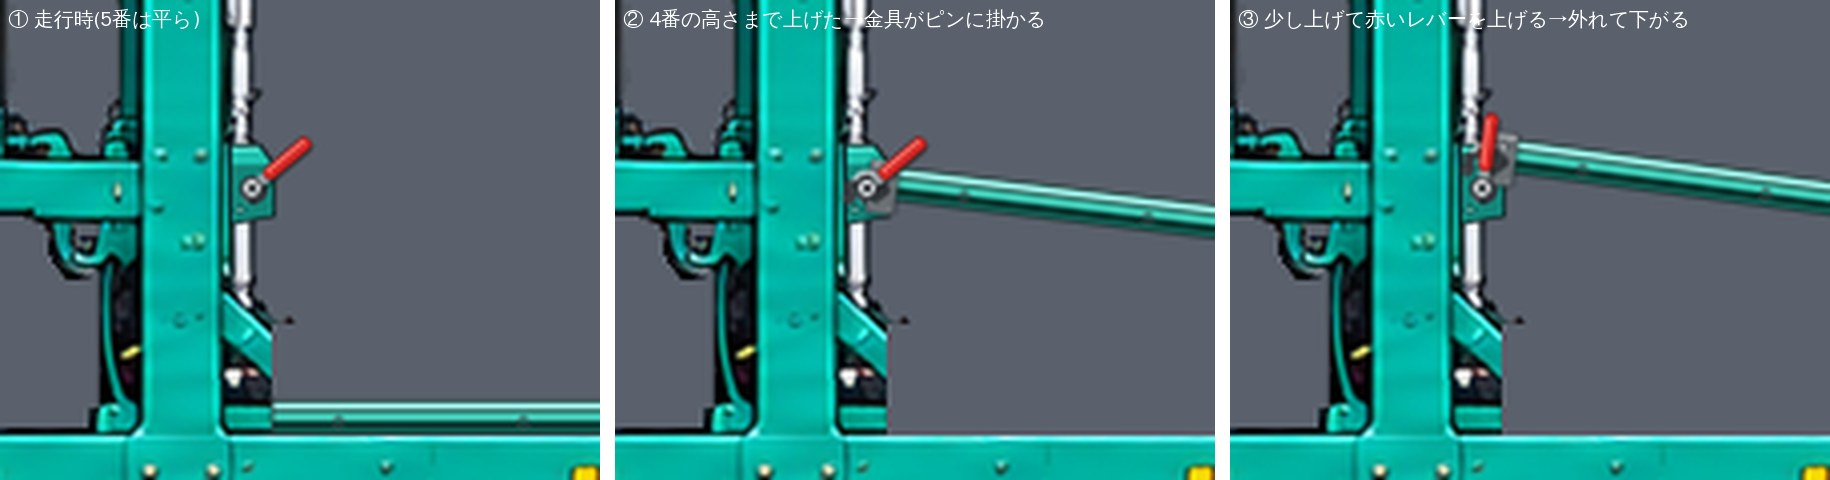
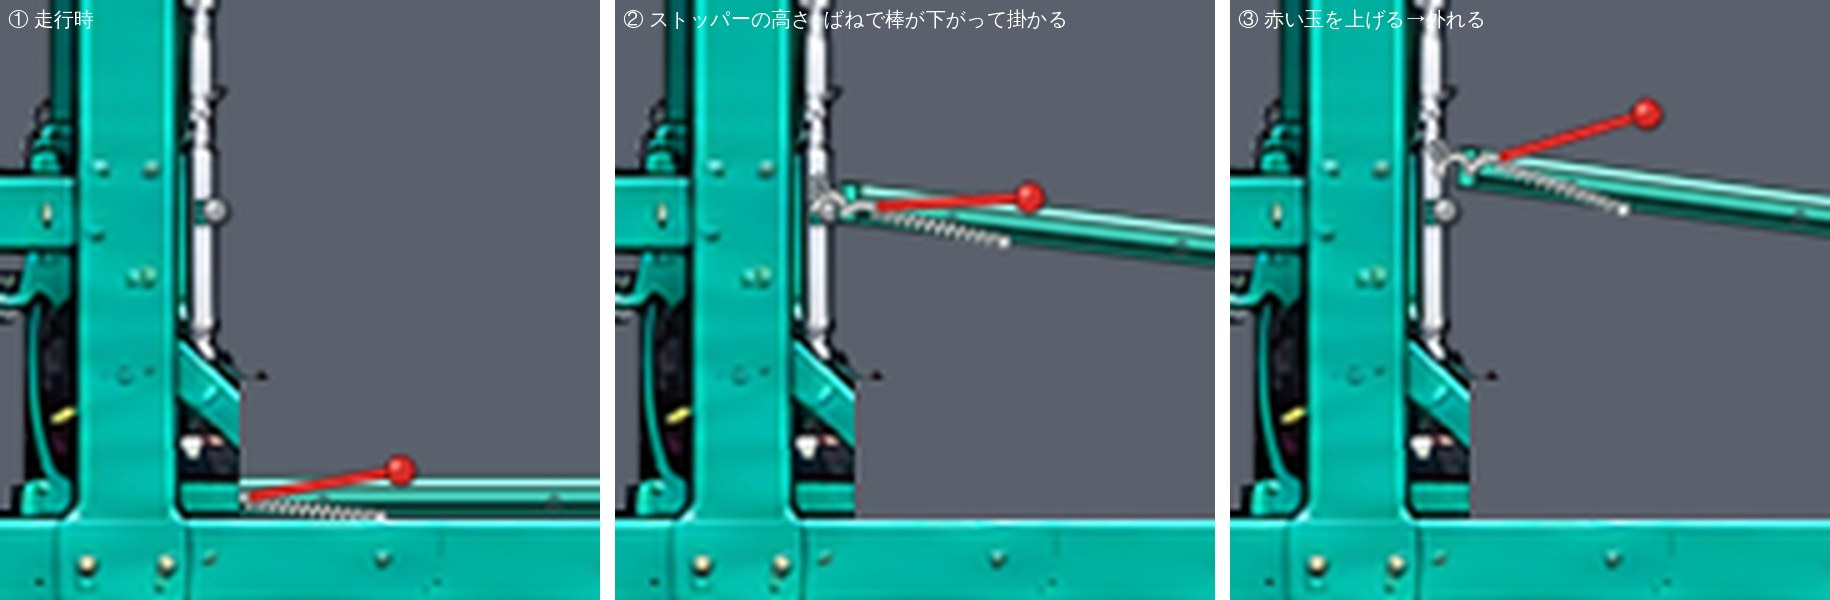
ビルド279.1.52(D50・D51)

diff --git a/index.html b/index.html
@@ -301,33 +301,33 @@
     color: #1b1f24; font-size: 13px; font-weight: bold; line-height: 1.2; text-align: center;
     background: none;
     border: 14px solid transparent; border-width: 14px; margin: 0;
-    border-image: url(assets/common/ui/btn_plate.png?v=279.1.50) 14 fill / 14px stretch;
+    border-image: url(assets/common/ui/btn_plate.png?v=279.1.52) 14 fill / 14px stretch;
     border-radius: 0;
     text-shadow: 0 1px 0 rgba(255,255,255,.35);
   }
-  .plate:active, #floorPanel .mechRow button:active, #chockPanel button:active, #btnOrient:active, #btnOrientCar:active, #deckDrawerHandle:active { border-image-source: url(assets/common/ui/btn_plate_pressed.png?v=279.1.50); padding-top: 2px; }
-  #floorPanel .mechRow button.on, #chockPanel button.on, #btnOrientCar { border-image-source: url(assets/common/ui/btn_plate_go.png?v=279.1.50); }
-  #floorPanel .mechRow button.on:active, #btnOrientCar:active { border-image-source: url(assets/common/ui/btn_plate_go_pressed.png?v=279.1.50); }
-  #btnLid { border-image-source: url(assets/common/ui/btn_plate_warn.png?v=279.1.50); }
-  #btnLid:active { border-image-source: url(assets/common/ui/btn_plate_warn_pressed.png?v=279.1.50); }
-  #floorPanel .mechRow button.go { border-image-source: url(assets/common/ui/btn_plate_go.png?v=279.1.50); }
-  #floorPanel .mechRow button.go:active { border-image-source: url(assets/common/ui/btn_plate_go_pressed.png?v=279.1.50); }
-  #chockPanel button:disabled, #btnOrient:disabled { border-image-source: url(assets/common/ui/btn_plate_disabled.png?v=279.1.50); opacity: 1; color: #6b7078; text-shadow: none; }
+  .plate:active, #floorPanel .mechRow button:active, #chockPanel button:active, #btnOrient:active, #btnOrientCar:active, #deckDrawerHandle:active { border-image-source: url(assets/common/ui/btn_plate_pressed.png?v=279.1.52); padding-top: 2px; }
+  #floorPanel .mechRow button.on, #chockPanel button.on, #btnOrientCar { border-image-source: url(assets/common/ui/btn_plate_go.png?v=279.1.52); }
+  #floorPanel .mechRow button.on:active, #btnOrientCar:active { border-image-source: url(assets/common/ui/btn_plate_go_pressed.png?v=279.1.52); }
+  #btnLid { border-image-source: url(assets/common/ui/btn_plate_warn.png?v=279.1.52); }
+  #btnLid:active { border-image-source: url(assets/common/ui/btn_plate_warn_pressed.png?v=279.1.52); }
+  #floorPanel .mechRow button.go { border-image-source: url(assets/common/ui/btn_plate_go.png?v=279.1.52); }
+  #floorPanel .mechRow button.go:active { border-image-source: url(assets/common/ui/btn_plate_go_pressed.png?v=279.1.52); }
+  #chockPanel button:disabled, #btnOrient:disabled { border-image-source: url(assets/common/ui/btn_plate_disabled.png?v=279.1.52); opacity: 1; color: #6b7078; text-shadow: none; }
   #floorPanel .mechRow button::before, #chockPanel #btnLid::before, #chockPanel #btnChockSet::before, #chockPanel #btnChockFront::before, #chockPanel #btnChockRear::before, #btnOrient::before, #btnOrientCar::before, #deckDrawerHandle::before {
     content: ''; flex: none; width: 26px; height: 26px; background-position: center; background-size: contain; background-repeat: no-repeat;
   }
   #modeBar > span:empty { display: none; }
   #floorPanel .mechRow button.hold6b::before { display: none; }   /* semi-6b の仮の昇降ボタン(アイコン無し) */
-  #btnRamp::before { background-image: url(assets/common/ui/ic_ramp.png?v=279.1.50); }
-  #btnBridge::before { background-image: url(assets/common/ui/ic_bridge.png?v=279.1.50); }
-  #btnSlide::before { background-image: url(assets/common/ui/ic_slide.png?v=279.1.50); }
-  #btnF2Flap::before { background-image: url(assets/common/ui/ic_flap2.png?v=279.1.50); }
-  #btnLid::before { background-image: url(assets/common/ui/ic_lid.png?v=279.1.50); }
-  #btnChockSet::before { background-image: url(assets/common/ui/ic_chock.png?v=279.1.50); }
-  #btnChockFront::before { background-image: url(assets/common/ui/ic_front.png?v=279.1.50); }
-  #btnChockRear::before { background-image: url(assets/common/ui/ic_rear.png?v=279.1.50); }
-  #btnOrient::before, #btnOrientCar::before { background-image: url(assets/common/ui/ic_orient.png?v=279.1.50); }
-  #deckDrawerHandle::before { background-image: url(assets/common/ui/ic_drawer.png?v=279.1.50); }
+  #btnRamp::before { background-image: url(assets/common/ui/ic_ramp.png?v=279.1.52); }
+  #btnBridge::before { background-image: url(assets/common/ui/ic_bridge.png?v=279.1.52); }
+  #btnSlide::before { background-image: url(assets/common/ui/ic_slide.png?v=279.1.52); }
+  #btnF2Flap::before { background-image: url(assets/common/ui/ic_flap2.png?v=279.1.52); }
+  #btnLid::before { background-image: url(assets/common/ui/ic_lid.png?v=279.1.52); }
+  #btnChockSet::before { background-image: url(assets/common/ui/ic_chock.png?v=279.1.52); }
+  #btnChockFront::before { background-image: url(assets/common/ui/ic_front.png?v=279.1.52); }
+  #btnChockRear::before { background-image: url(assets/common/ui/ic_rear.png?v=279.1.52); }
+  #btnOrient::before, #btnOrientCar::before { background-image: url(assets/common/ui/ic_orient.png?v=279.1.52); }
+  #deckDrawerHandle::before { background-image: url(assets/common/ui/ic_drawer.png?v=279.1.52); }
   #chockPanel #btnChockFront, #chockPanel #btnChockRear { font-size: 0; padding: 0 4px; min-width: 56px; }   /* ◀前へ・後ろへ▶ は、アイコンだけ */
   #chockPanel #btnChockFront::after { content: '前へ'; font-size: 12px; }
   #chockPanel #btnChockRear::after { content: '後ろへ'; font-size: 12px; }
@@ -336,57 +336,57 @@
   /* 輪止め・落し蓋のスロット: フロアの名札(slot_*)。選んでいる番号は黄色い縁 */
   #slotSel button { box-sizing: border-box; width: 46px; height: 46px; min-width: 0; padding: 0; border: 0; border-radius: 0; font-size: 0; color: transparent; background: center / contain no-repeat; }
   #slotSel button.on { background-color: transparent; border: 0; }
-  #slotSel button[data-slot="1"] { background-image: url(assets/common/ui/slot_1.png?v=279.1.50); } #slotSel button[data-slot="1"].on { background-image: url(assets/common/ui/slot_1_selected.png?v=214); }
-  #slotSel button[data-slot="2"] { background-image: url(assets/common/ui/slot_2.png?v=279.1.50); } #slotSel button[data-slot="2"].on { background-image: url(assets/common/ui/slot_2_selected.png?v=214); }
-  #slotSel button[data-slot="3"] { background-image: url(assets/common/ui/slot_3.png?v=279.1.50); } #slotSel button[data-slot="3"].on { background-image: url(assets/common/ui/slot_3_selected.png?v=214); }
-  #slotSel button[data-slot="4"] { background-image: url(assets/common/ui/slot_4.png?v=279.1.50); } #slotSel button[data-slot="4"].on { background-image: url(assets/common/ui/slot_4_selected.png?v=214); }
-  #slotSel button[data-slot="5"] { background-image: url(assets/common/ui/slot_5.png?v=279.1.50); } #slotSel button[data-slot="5"].on { background-image: url(assets/common/ui/slot_5_selected.png?v=214); }
-  #slotSel button[data-slot="6"] { background-image: url(assets/common/ui/slot_6.png?v=279.1.50); } #slotSel button[data-slot="6"].on { background-image: url(assets/common/ui/slot_6_selected.png?v=214); }
-  #slotSel button[data-slot="7"] { background-image: url(assets/common/ui/slot_mid.png?v=279.1.50); } #slotSel button[data-slot="7"].on { background-image: url(assets/common/ui/slot_mid_selected.png?v=214); }
+  #slotSel button[data-slot="1"] { background-image: url(assets/common/ui/slot_1.png?v=279.1.52); } #slotSel button[data-slot="1"].on { background-image: url(assets/common/ui/slot_1_selected.png?v=214); }
+  #slotSel button[data-slot="2"] { background-image: url(assets/common/ui/slot_2.png?v=279.1.52); } #slotSel button[data-slot="2"].on { background-image: url(assets/common/ui/slot_2_selected.png?v=214); }
+  #slotSel button[data-slot="3"] { background-image: url(assets/common/ui/slot_3.png?v=279.1.52); } #slotSel button[data-slot="3"].on { background-image: url(assets/common/ui/slot_3_selected.png?v=214); }
+  #slotSel button[data-slot="4"] { background-image: url(assets/common/ui/slot_4.png?v=279.1.52); } #slotSel button[data-slot="4"].on { background-image: url(assets/common/ui/slot_4_selected.png?v=214); }
+  #slotSel button[data-slot="5"] { background-image: url(assets/common/ui/slot_5.png?v=279.1.52); } #slotSel button[data-slot="5"].on { background-image: url(assets/common/ui/slot_5_selected.png?v=214); }
+  #slotSel button[data-slot="6"] { background-image: url(assets/common/ui/slot_6.png?v=279.1.52); } #slotSel button[data-slot="6"].on { background-image: url(assets/common/ui/slot_6_selected.png?v=214); }
+  #slotSel button[data-slot="7"] { background-image: url(assets/common/ui/slot_mid.png?v=279.1.52); } #slotSel button[data-slot="7"].on { background-image: url(assets/common/ui/slot_mid_selected.png?v=214); }
   #slotSel button:active { filter: brightness(.85); }
 
   /* 前進(◀ 緑)・後退(▶ 橙)の大きな丸い押ボタン(押している間は沈む。クラス down は ui_layout.js が付ける) */
   #arrowGroup { background: none; border: 0; padding: 0; gap: 14px; }
   #arrowGroup .arrowBtn { width: 76px; height: 76px; border: 0; border-radius: 0; background-color: transparent; background-position: center; background-size: contain; background-repeat: no-repeat; font-size: 0; color: transparent; }
-  #btnLeft { background-image: url(assets/common/ui/btn_drive_fwd.png?v=279.1.50); }
-  #btnRight { background-image: url(assets/common/ui/btn_drive_back.png?v=279.1.50); }
-  #btnLeft:active, #btnLeft.down { background-image: url(assets/common/ui/btn_drive_fwd_pressed.png?v=279.1.50); background-color: transparent; }
-  #btnRight:active, #btnRight.down { background-image: url(assets/common/ui/btn_drive_back_pressed.png?v=279.1.50); background-color: transparent; }
+  #btnLeft { background-image: url(assets/common/ui/btn_drive_fwd.png?v=279.1.52); }
+  #btnRight { background-image: url(assets/common/ui/btn_drive_back.png?v=279.1.52); }
+  #btnLeft:active, #btnLeft.down { background-image: url(assets/common/ui/btn_drive_fwd_pressed.png?v=279.1.52); background-color: transparent; }
+  #btnRight:active, #btnRight.down { background-image: url(assets/common/ui/btn_drive_back_pressed.png?v=279.1.52); background-color: transparent; }
   body { padding-bottom: 104px; }
 
   /* 上の情報欄・下の操作パネルの背景 */
-  #modeBar { box-sizing: border-box; background: none; border: solid transparent; border-width: 0 24px 6px 24px; border-image: url(assets/common/ui/hud_bar.png?v=279.1.50) 0 24 6 24 fill / 0 24px 6px 24px stretch; padding: 8px 0 4px; gap: 8px; color: #dfe8f2; min-height: 56px; align-items: center; }
+  #modeBar { box-sizing: border-box; background: none; border: solid transparent; border-width: 0 24px 6px 24px; border-image: url(assets/common/ui/hud_bar.png?v=279.1.52) 0 24 6 24 fill / 0 24px 6px 24px stretch; padding: 8px 0 4px; gap: 8px; color: #dfe8f2; min-height: 56px; align-items: center; }
   #modeBar #modeBarName { flex: 1 1 100%; font-size: 14px; }
-  #modeBar > span:not(#modeBarName):not(#missCount) { box-sizing: border-box; border: 8px solid transparent; border-image: url(assets/common/ui/meter_box.png?v=279.1.50) 8 fill / 8px stretch; padding: 0 2px; min-width: 56px; text-align: center; font-size: 13px; color: #7dfcd0; font-weight: bold; line-height: 1.1; }
+  #modeBar > span:not(#modeBarName):not(#missCount) { box-sizing: border-box; border: 8px solid transparent; border-image: url(assets/common/ui/meter_box.png?v=279.1.52) 8 fill / 8px stretch; padding: 0 2px; min-width: 56px; text-align: center; font-size: 13px; color: #7dfcd0; font-weight: bold; line-height: 1.1; }
   #modeBar #modeBarScore { margin-left: auto; color: #ffd34d; }
   #modeBar #missCount { margin-left: 4px; font-size: 14px; }
   #toolbar { display: none; }
   body.debug #toolbar { display: flex; }
   #status { display: none; }
   body.debug #status { display: block; }
-  #floorPanel, #chockPanel, #controls { box-sizing: border-box; background: none; border: solid transparent; border-width: 12px 16px 8px 16px; border-image: url(assets/common/ui/panel_bg.png?v=279.1.50) 12 16 8 16 fill / 12px 16px 8px 16px stretch; margin-top: 2px; }
+  #floorPanel, #chockPanel, #controls { box-sizing: border-box; background: none; border: solid transparent; border-width: 12px 16px 8px 16px; border-image: url(assets/common/ui/panel_bg.png?v=279.1.52) 12 16 8 16 fill / 12px 16px 8px 16px stretch; margin-top: 2px; }
 
   /* A-3 必要な時だけ出す: スイッチの説明文は ? を押した時だけ。車の一覧は引き出し式 */
   #swHint { display: none !important; }
   #swHint.show { display: block !important; }
   #btnHelp, #btnSwClose { box-sizing: border-box; width: 36px; height: 36px; padding: 0; margin-left: 8px; vertical-align: middle; border: 0; background: center / contain no-repeat; font-size: 0; color: transparent; cursor: pointer; }
-  #btnHelp { background-image: url(assets/common/ui/ic_help.png?v=279.1.50); }
-  #floorPanel #btnSwClose { width: 36px; height: 36px; padding: 0; margin-left: 4px; border: 0; background: center / contain no-repeat url(assets/common/ui/ic_close.png?v=279.1.50); font-size: 0; }
+  #btnHelp { background-image: url(assets/common/ui/ic_help.png?v=279.1.52); }
+  #floorPanel #btnSwClose { width: 36px; height: 36px; padding: 0; margin-left: 4px; border: 0; background: center / contain no-repeat url(assets/common/ui/ic_close.png?v=279.1.52); font-size: 0; }
   #deckDrawerHandle { width: 100%; justify-content: flex-start; }
   #deckDrawerHandle .cnt { margin-left: auto; font-weight: normal; }
   #deckDrawer { display: none; }
   #deckDrawer.open { display: block; margin-top: 6px; }
 
   /* 今は押せない操作(車が道板・4番扇動板を通っている間など)は、灰色の板にする(ui_layout.js が na を付ける。押すとゲームが理由を出す) */
-  #floorPanel .mechRow button.na, #floorPanel .mechRow button.na:active { border-image-source: url(assets/common/ui/btn_plate_disabled.png?v=279.1.50); color: #6b7078; text-shadow: none; padding-top: 0; }
+  #floorPanel .mechRow button.na, #floorPanel .mechRow button.na:active { border-image-source: url(assets/common/ui/btn_plate_disabled.png?v=279.1.52); color: #6b7078; text-shadow: none; padding-top: 0; }
   #floorPanel .mechRow button.na::before { opacity: .45; }
 
   /* モード・難易度・結果の画面のボタンも、同じ板にそろえる(もう一度=緑) */
-  .modeBtn { box-sizing: border-box; background: none; border: 14px solid transparent; border-image: url(assets/common/ui/btn_plate.png?v=279.1.50) 14 fill / 14px stretch; border-radius: 0; color: #1b1f24; text-shadow: 0 1px 0 rgba(255,255,255,.35); padding: 4px 8px; min-height: 52px; }
+  .modeBtn { box-sizing: border-box; background: none; border: 14px solid transparent; border-image: url(assets/common/ui/btn_plate.png?v=279.1.52) 14 fill / 14px stretch; border-radius: 0; color: #1b1f24; text-shadow: 0 1px 0 rgba(255,255,255,.35); padding: 4px 8px; min-height: 52px; }
   .modeBtn small { color: #3a4048; }
-  .modeBtn:active { background: none; border-image-source: url(assets/common/ui/btn_plate_pressed.png?v=279.1.50); }
-  #btnRetry.modeBtn { border-image-source: url(assets/common/ui/btn_plate_go.png?v=279.1.50); }
-  #btnRetry.modeBtn:active { border-image-source: url(assets/common/ui/btn_plate_go_pressed.png?v=279.1.50); }
+  .modeBtn:active { background: none; border-image-source: url(assets/common/ui/btn_plate_pressed.png?v=279.1.52); }
+  #btnRetry.modeBtn { border-image-source: url(assets/common/ui/btn_plate_go.png?v=279.1.52); }
+  #btnRetry.modeBtn:active { border-image-source: url(assets/common/ui/btn_plate_go_pressed.png?v=279.1.52); }
 
   /* ===== スマホ幅: 下にスクロールしなくても、操作が1画面に収まるように詰める(車の一覧だけ、下にスクロールでよい。2026-10-06) =====
      幅 700px 以下だけに効く(パソコンの広い画面は、今まで通り)。ボタンの高さ・余白・段数を減らす */
@@ -664,7 +664,7 @@
 // トレーラーの切り替え: URL の hash に trailer=semi-6b があれば semi-6b、無ければ semi-6(従来どおり)。選んだIDは window.TRAILER_ID。
 // 読むファイルの組み合わせがトレーラーごとに違う(設定・フロア機構・積める判定・操作ボタン)ので、ここで決めて順番に読む。画像・JSを差し替えたら ?v= を上げる
 (function () {
-  var m = /[#&]trailer=(semi-6b?)(?:&|$)/.exec(location.hash), id = window.TRAILER_ID = m ? m[1] : 'semi-6', V = '?v=279.1.50';
+  var m = /[#&]trailer=(semi-6b?)(?:&|$)/.exec(location.hash), id = window.TRAILER_ID = m ? m[1] : 'semi-6', V = '?v=279.1.52';
   var list = id === 'semi-6b'
     ? ['trailer_config_semi6b', 'car_library', 'car_dims', 'car_tires', 'floor_mech_6b', 'loadable_6b', 'main', 'game', 'floor_controls_6b', 'modes', 'dispatch', 'ui_layout', 'ui_hide']
     : ['trailer_config', 'trailer_assets', 'car_library', 'car_dims', 'car_tires', 'floor_mech', 'loadable', 'main', 'game', 'floor_controls', 'modes', 'tutorial', 'dispatch', 'ui_layout', 'ui_hide'];

diff --git a/js/main.js b/js/main.js
@@ -205,7 +205,7 @@
     loadImage(floorSrc('F2')).then(function (img) { images.F2 = NA ? img : cleanF2(img); }),
     loadImage(floorSrc('F3')).then(function (img) { images.F3 = img; }),
     loadImage(floorSrc('F5')).then(function (img) { images.F5 = img; })
-  ].concat(IS6B ? [] : ['bracket', 'lever', 'lever_up', 'hook'].map(function (k) { return loadImage('assets/semi-6/parts/slope_latch_' + k + '.png?v=1').then(function (img) { images['sl_' + k] = img; }, function () { }); }),
+  ].concat(IS6B ? [] : ['pin', 'bar', 'bar_up'].map(function (k) { return loadImage('assets/semi-6/parts/slope_latch_' + k + '.png?v=2').then(function (img) { images['sl_' + k] = img; }, function () { }); }),
     IS6B ? [] : ['limit_switch', 'limit_switch_on'].map(function (k) { return loadImage('assets/common/switches/' + k + '.png?v=1').then(function (img) { images['sw_' + k] = img; }, function () { }); }),
     IS6B ? [] : ['hook', 'winch_body', 'winch_handle'].map(function (k) { return loadImage('assets/common/tiedown/' + k + '.png?v=1').then(function (img) { images['td_' + k] = img; }, function () { }); }),
     NA && NA.parts ? Object.keys(NA.parts).map(function (k) { return loadImage(newSrc(NA.parts[k])).then(function (img) { images[k] = img; }); }) : [],
@@ -747,20 +747,12 @@
   // 全フロアを重ね直す(フロア画像は該当箇所以外ほぼ透明なので、余分な重ね描きをしても
   // 見た目への影響はない)。
   function drawCarOcclusion() {
-    if (images.sl_bracket) ctx.drawImage(images.sl_bracket, 996, 444);   // 5番のスロープのピンの金具(中央の柱の後ろの面。動かない。D45)
+    if (images.sl_pin) ctx.drawImage(images.sl_pin, 998, 452);   // 5番のスロープの固定ピン(中央の柱の後ろの面。動かない。D50)
     ['F1', 'F2', 'F3', 'F5'].forEach(function (id) {
       if (images[id]) drawTransformedFloor(id, images[id]);
     });
-    drawSlopeHook();
     drawHangFloor();
   }
-  // 5番の前端の引っかけ金具(5番と一緒に動く)。pivot [12,3] を5番の前端の点に合わせ、5番の角度で回す(D45)
-  function drawSlopeHook() {
-    var fm = window.FLOOR_MECH; if (!images.sl_hook || !fm || !fm.f5FrontPt) return;
-    var p = fm.f5FrontPt(), ang = fm.poseOf('F5').ang * Math.PI / 180;
-    ctx.save(); ctx.translate(p[0], p[1]); ctx.rotate(ang); ctx.drawImage(images.sl_hook, -12, -3); ctx.restore();
-  }
-
   // フロアの現在の傾き(ang)・上下量(dh)に合わせて画像を変形して描く
   // 中段フロア(5番と6番の間の持ち上がるフロア): 素材の前端pivot(3,10)を今の前端の位置に合わせ、前端→後端の角度に回して描く
   // 中段フロアの新素材(実車合わせ: 前の柱は1本物、後ろは長い柱+中から伸びる支柱、前の柱と平行に持ち上げシリンダー)が読めているか
@@ -1117,14 +1109,14 @@
   // 5番のスロープのピンの、赤いレバー(中央の柱の後ろの面。D45。マニュアルの図とユーザーの説明どおり)。普段は斜め上40度。5番が4番の高さに掛かっている間にタップすると、
   // レバーが上がって(82度)ピンが外れ、5番を下げられる。5番が4番の高さより下がると、レバーは自動で普段の向きに戻る(ピンが出る)。タップできる間は、まわりをゆっくり光らせる
   function drawStopperHook(fm) {
-    var up = !fm.MECH.stopper, im = images[up ? 'sl_lever_up' : 'sl_lever'];
+    var up = !fm.MECH.stopper, im = images[up ? 'sl_bar_up' : 'sl_bar'];
     if (!im || !fm.leverPose) return;
     var L = fm.leverPose();   // 5番フロアの前端に付いて、5番と一緒に動く(ユーザー指示 2026-10-15)
     if (fm.stopperVisible && fm.stopperVisible()) {
       var pulse = 0.5 + 0.5 * Math.sin(performance.now() / 260), tp = fm.stopperPos();
       ctx.save(); ctx.fillStyle = 'rgba(255,90,70,' + (0.16 + 0.2 * pulse) + ')'; ctx.beginPath(); ctx.arc(tp[0], tp[1], 16 + 3 * pulse, 0, Math.PI * 2); ctx.fill(); ctx.restore();
     }
-    ctx.save(); ctx.translate(L.pin[0], L.pin[1]); ctx.rotate(L.rot); ctx.drawImage(im, -7, -19); ctx.restore();
+    ctx.save(); ctx.translate(L.pin[0], L.pin[1]); ctx.rotate(L.rot); ctx.drawImage(im, -10, -26); ctx.restore();
   }
 
   function drawPulley(p) {
@@ -1978,7 +1970,8 @@
     var place = placeOnSlot;
     Object.keys(cfg.slots).forEach(function (num) {
       var slot = cfg.slots[num], sel = st.targetSlot === num, lim = st.chockLimits(num);
-      if (pass === 'holes' && slot.stopKind === 'none') {
+      // D51: 5番を上げると床が穴の列から離れ、黒い線が床の下に浮いて見える。平らな時だけ描く
+      if (pass === 'holes' && slot.stopKind === 'none' && !(num === '5' && fm && fm.atTravel && !fm.atTravel('F5'))) {
         for (var i = lim.min; i <= lim.max; i++) {
           place(slot, i * lim.stepCm / 100 * cfg.pxPerMeter, function () {
             ctx.fillStyle = 'rgba(20,20,20,0.85)';

diff --git a/js/floor_mech.js b/js/floor_mech.js
@@ -538,14 +538,15 @@
   // 金具の位置(画面座標): 5番フロアの前端の下面。5番フロアの今の姿勢に付いていく
   // 赤いレバーは、5番フロアの前端に取り付ける(ユーザー指示 2026-10-15。以前は柱に固定)。素材の位置(D45): 5番が4番の高さ(前端 (1005,451)・6.73度)に掛かった時、レバーの軸=(1003,457)。
   // その差を、5番の座標(5番の角度で回す)で持ち、5番の今の前端と角度に付いていく。レバーの絵は、その時の向き(世界の角度)で作ってあるので、5番の角度の差(今の角度 − 6.73度)だけ回す
-  var LV_LOCAL = [-1.28, 6.19], LV_DEG0 = 6.73;
+  // D50 第3版: 赤い玉付きの棒は5番の前端に付き、5番の角度で回る。タップする所=赤い玉(5番の座標 TAP_LOCAL)
+  var TAP_LOCAL = [38, -1];
   function leverPose() {
-    var p = f5FrontPt(), a = poseOf('F5').ang * Math.PI / 180, c = Math.cos(a), s = Math.sin(a);
-    return { pin: [p[0] + LV_LOCAL[0] * c - LV_LOCAL[1] * s, p[1] + LV_LOCAL[0] * s + LV_LOCAL[1] * c], rot: a - LV_DEG0 * Math.PI / 180 };
+    var p = f5FrontPt(), a = poseOf('F5').ang * Math.PI / 180;
+    return { pin: p, rot: a };
   }
-  function stopperPos() {   // タップする所: 赤いレバーの先
+  function stopperPos() {
     var L = leverPose(), c = Math.cos(L.rot), s = Math.sin(L.rot);
-    return [L.pin[0] + 8 * c + 10 * s, L.pin[1] + 8 * s - 10 * c];
+    return [L.pin[0] + TAP_LOCAL[0] * c - TAP_LOCAL[1] * s, L.pin[1] + TAP_LOCAL[0] * s + TAP_LOCAL[1] * c];
   }
   function f5FrontPt() { return onFloor('F5', FLOORS.F5.front.pt[0], FLOORS.F5.front.pt[1]); }
   function toggleStopper() {

diff --git a/js/trailer_config.js b/js/trailer_config.js
@@ -2,11 +2,11 @@ window.TRAILER_CONFIG = {
   "id": "semi-6",
   "name": "セミトレーラー(6台積み)",
   "stage": { "w": 2520, "h": 724 },
-  "yard": { "bg": "assets/common/yard/yard_bg.png", "ground": "assets/common/yard/yard_ground.png", "frameBack": "assets/semi-6/frame_back_clear.png", "tractor": "assets/semi-6/tractor_clear.png", "v": 3 },
+  "yard": { "bg": "assets/common/yard/yard_bg.png", "ground": "assets/common/yard/yard_ground.png", "frameBack": "assets/semi-6/frame_back_clear.png", "tractor": "assets/semi-6/tractor_clear.png", "v": 5 },
   "pxPerMeter": 114,
 
   "newArt": {
-    "v": 124,
+    "v": 125,
     "note": "グラフィック制作チャットの新素材(assets/semi-6/...)。floors=フロア(ステージ全面サイズ)",
     "switchScale": 0.27, "switchDir": "assets/common/switches/",
     "switchParts": ["sw_pendant2", "sw_pendant6", "sw_box2", "lamp_panel_lock", "btn_cap_ue_big", "btn_cap_ue_big_pressed", "btn_cap_shita_big", "btn_cap_shita_big_pressed", "btn_sq", "btn_sq_pressed", "btn_cap6_nobi_big", "btn_cap6_chiji_big", "btn_cap6_migi_oshi_big", "btn_cap6_migi_hiki_big", "btn_cap6_hidari_oshi_big", "btn_cap6_hidari_hiki_big", "btn_cap6_nobi_big_pressed", "btn_cap6_chiji_big_pressed", "btn_cap6_migi_oshi_big_pressed", "btn_cap6_migi_hiki_big_pressed", "btn_cap6_hidari_oshi_big_pressed", "btn_cap6_hidari_hiki_big_pressed", "hint_glow", "lamp_green", "lamp_green_off", "lamp_red", "lamp_red_off"],

diff --git a/assets/ui/capture_rig.js b/assets/ui/capture_rig.js
@@ -20,8 +20,8 @@ function png(r, g, b, a) {
   for (const col of ['bk', 'wh']) {
     const p = await b.newPage({ viewport: { width: 2520, height: 724 } });
     const errs = []; p.on('pageerror', e => errs.push(e.message));
-    await p.route(/yard_bg\.(png|webp)/, r => r.fulfill({ body: BG[col], contentType: 'image/png' }));
-    await p.route(/yard_ground\.(png|webp)/, r => r.fulfill({ body: CLEAR, contentType: 'image/png' }));
+    await p.route(/yard_bg[^/?]*\.(png|webp)/, r => r.fulfill({ body: BG[col], contentType: 'image/png' }));
+    await p.route(/yard_ground[^/?]*\.(png|webp)/, r => r.fulfill({ body: CLEAR, contentType: 'image/png' }));
     await p.goto('http://localhost:8080/index.html#mode=sim&yard=day', { waitUntil: 'load' });
     await p.waitForTimeout(5000);
     await p.evaluate(() => { window.UI_HIDDEN = true; });

diff --git a/title.html b/title.html
@@ -461,6 +461,6 @@
   });
 })();
 </script>
-<div id="buildTag" style="position:fixed;right:8px;bottom:6px;font:11px/1 sans-serif;color:rgba(255,255,255,.55);text-shadow:0 1px 2px rgba(0,0,0,.6);z-index:5;pointer-events:none">ビルド 279.1.50</div>
+<div id="buildTag" style="position:fixed;right:8px;bottom:6px;font:11px/1 sans-serif;color:rgba(255,255,255,.55);text-shadow:0 1px 2px rgba(0,0,0,.6);z-index:5;pointer-events:none">ビルド 279.1.52</div>
 </body>
 </html>
